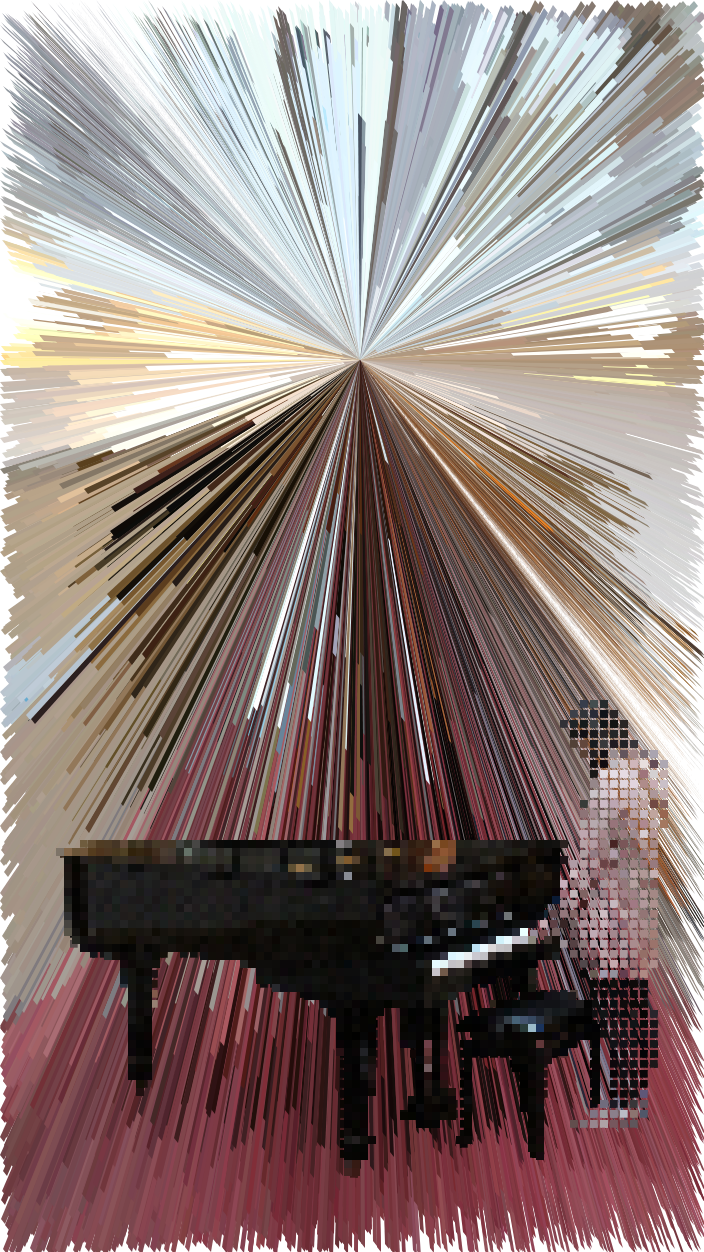
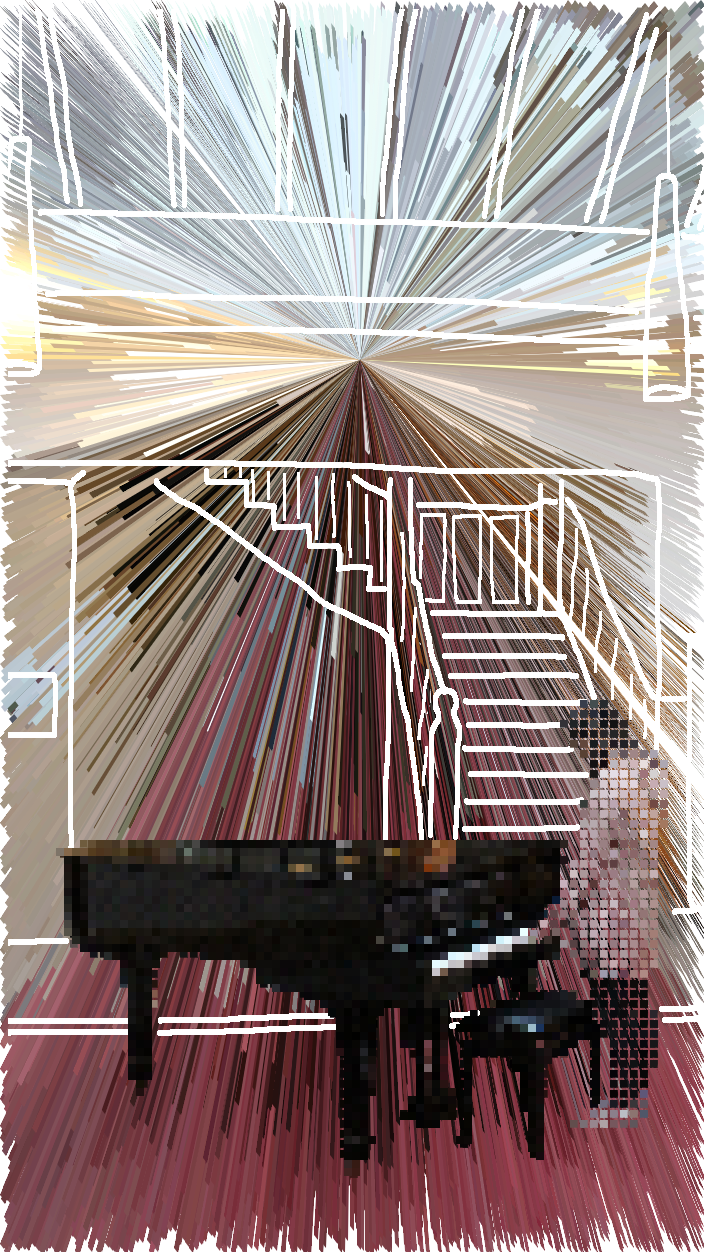
Update process 4.

diff --git a/sketch.js b/sketch.js
@@ -2,13 +2,14 @@ let sourceImg=null;
 let maskImg=null;
 let renderCounter=0;
 
-let sourceFile = "input_3.jpg";
-let maskFile   = "mask_3.png";
-let outputFile = "artwork_3.png";
+let sourceFile = "input_1.jpg";
+let maskFile   = "mask_1.png";
+let outputFile = "artwork_1.png";
 
 function preload() {
   sourceImg = loadImage(sourceFile);
   maskImg = loadImage(maskFile);
+  draw1 = loadImage('drawing_1.png');
 }
 
 function setup () {
@@ -30,12 +31,13 @@ function draw () {
     let mask = maskImg.get(x, y);
     let pointSize = 360;
 
-  // // input_1
-  //   fill(pix);
-  //   if(mask[0] < 255) {
-  //     triangle (x, y, pointSize, pointSize, x+4, y+5);
-  //   }
+  // input_1
+    fill(pix);
+    if(mask[0] < 255) {
+      triangle (x, y, pointSize, pointSize, x+4, y+5);
+    }
 
+    image(draw1, pointSize, pointSize*1.45);
   // // input_2
   // //   person
     // if(mask[0] >= 255) {
@@ -45,52 +47,52 @@ function draw () {
     //   pop();
     // }
 
-  //input_3
-    // left 1
-    fill(pix);
-    noStroke();
-    if(mask[0] >= 255) {
-      rect (x, y, x/15, y/30);
-    }
+  // //input_3
+  //   // left 1
+  //   fill(pix);
+  //   noStroke();
+  //   if(mask[0] >= 255) {
+  //     rect (x, y, x/15, y/30);
+  //   }
 
-    // right 1
-    fill(pix);
-    noStroke();
-    if(mask[0] >= 150 && mask[0] < 200) {
-      rect (x, y, x/30, y/90);
-    }
+  //   // right 1
+  //   fill(pix);
+  //   noStroke();
+  //   if(mask[0] >= 150 && mask[0] < 200) {
+  //     rect (x, y, x/30, y/90);
+  //   }
 
   }
 
 
-  // //input_1
-  //   const tile_width = 10;
-  //   const tile_height = 10;
+  //input_1
+    const tile_width = 10;
+    const tile_height = 10;
 
-  //     for (let y = 0; y < height; y = y + tile_height){
-  //       for (let x = 0; x < width; x = x + tile_width){
-  //         let pix = sourceImg.get (x, y);
-  //         let mask = maskImg.get (x, y);
-  //         fill (pix);
-  //         if (mask[0] >= 80){
-  //           rect (x, y, tile_width/1.3, tile_height/1.3);
-  //         }    
-  //       }
-  //     }
+      for (let y = 0; y < height; y = y + tile_height){
+        for (let x = 0; x < width; x = x + tile_width){
+          let pix = sourceImg.get (x, y);
+          let mask = maskImg.get (x, y);
+          fill (pix);
+          if (mask[0] >= 80){
+            rect (x, y, tile_width/1.3, tile_height/1.3);
+          }    
+        }
+      }
 
-  //   const tile_width1 = 8;
-  //   const tile_height1 = 8;
+    const tile_width1 = 8;
+    const tile_height1 = 8;
 
-  //     for (let y = 0; y < height; y = y + tile_height1){
-  //       for (let x = 0; x < width; x = x + tile_width1){
-  //         let pix = sourceImg.get (x, y);
-  //         let mask = maskImg.get (x, y);
-  //         fill (pix);
-  //         if (mask[0] >= 160){
-  //           rect (x, y, tile_width1, tile_height1);
-  //         }    
-  //       }
-  //     }
+      for (let y = 0; y < height; y = y + tile_height1){
+        for (let x = 0; x < width; x = x + tile_width1){
+          let pix = sourceImg.get (x, y);
+          let mask = maskImg.get (x, y);
+          fill (pix);
+          if (mask[0] >= 160){
+            rect (x, y, tile_width1, tile_height1);
+          }    
+        }
+      }
 
 
   // //input_2
@@ -176,110 +178,110 @@ function draw () {
   //   }
 
 
-  // input_3
+  // // input_3
 
-    // stage
-    const tile_width5 = 10;
-    const tile_height5 = 5;
+  //   // stage
+  //   const tile_width5 = 10;
+  //   const tile_height5 = 5;
 
-    for (let y = 0; y < height; y = y + tile_height5){
-      for (let x = 0; x < width; x = x + tile_width5){
-        let pix = sourceImg.get (x, y);
-        let mask = maskImg.get (x, y);
-        noFill();
-        stroke(pix);
-        if (mask[0] >= 50 && mask[0] < 80){
-          push();
-          stroke(pix);
-          line (x+20, y-20, x-20, y-10);
-          pop();
-        }
-      }
-    }
+  //   for (let y = 0; y < height; y = y + tile_height5){
+  //     for (let x = 0; x < width; x = x + tile_width5){
+  //       let pix = sourceImg.get (x, y);
+  //       let mask = maskImg.get (x, y);
+  //       noFill();
+  //       stroke(pix);
+  //       if (mask[0] >= 50 && mask[0] < 80){
+  //         push();
+  //         stroke(pix);
+  //         line (x+20, y-20, x-20, y-10);
+  //         pop();
+  //       }
+  //     }
+  //   }
 
-    // left 2
-    const tile_width1 = 3;
-    const tile_height1 = 8;
+  //   // left 2
+  //   const tile_width1 = 3;
+  //   const tile_height1 = 8;
 
-    for (let y = 0; y < height; y = y + tile_height1){
-      for (let x = 0; x < width; x = x + tile_width1){
-        let pix = sourceImg.get (x, y);
-        let mask = maskImg.get (x, y);
-        noFill();
-        stroke(pix);
-        if (mask[0] >= 200 && mask[0] < 255){
-          push();
-          stroke(pix);
-          strokeWeight(2);
-          line (x-10, y+10, x-10, y-10);
-          pop();
-        }
-      }
-    }
+  //   for (let y = 0; y < height; y = y + tile_height1){
+  //     for (let x = 0; x < width; x = x + tile_width1){
+  //       let pix = sourceImg.get (x, y);
+  //       let mask = maskImg.get (x, y);
+  //       noFill();
+  //       stroke(pix);
+  //       if (mask[0] >= 200 && mask[0] < 255){
+  //         push();
+  //         stroke(pix);
+  //         strokeWeight(2);
+  //         line (x-10, y+10, x-10, y-10);
+  //         pop();
+  //       }
+  //     }
+  //   }
 
-    // right 2
-    const tile_width3 = 8;
-    const tile_height3 = 3;
+  //   // right 2
+  //   const tile_width3 = 8;
+  //   const tile_height3 = 3;
 
-    for (let y = 0; y < height; y = y + tile_height3){
-      for (let x = 0; x < width; x = x + tile_width3){
-        let pix = sourceImg.get (x, y);
-        let mask = maskImg.get (x, y);
-        noFill();
-        stroke(pix);
-        if (mask[0] >= 100 && mask[0] < 150){
-          push();
-          stroke(pix);
-          strokeWeight(2);
-          line (x+10, y-10, x-10, y-10);
-          pop();
-        }
-      }
-    }
+  //   for (let y = 0; y < height; y = y + tile_height3){
+  //     for (let x = 0; x < width; x = x + tile_width3){
+  //       let pix = sourceImg.get (x, y);
+  //       let mask = maskImg.get (x, y);
+  //       noFill();
+  //       stroke(pix);
+  //       if (mask[0] >= 100 && mask[0] < 150){
+  //         push();
+  //         stroke(pix);
+  //         strokeWeight(2);
+  //         line (x+10, y-10, x-10, y-10);
+  //         pop();
+  //       }
+  //     }
+  //   }
 
-    // lantern
-    const tile_width4 = 10;
-    const tile_height4 = 5;
+  //   // lantern
+  //   const tile_width4 = 10;
+  //   const tile_height4 = 5;
 
-    for (let y = 0; y < height; y = y + tile_height4){
-      for (let x = 0; x < width; x = x + tile_width4){
-        let pix = sourceImg.get (x, y);
-        let mask = maskImg.get (x, y);
-        noFill();
-        stroke(pix);
-        if (mask[0] >= 80 && mask[0] < 100){
-          push();
-          stroke(pix);
-          strokeWeight(1.5);
-          line (x+20, y-10, x-10, y-20);
-          pop();
-        }
-      }
-    }
+  //   for (let y = 0; y < height; y = y + tile_height4){
+  //     for (let x = 0; x < width; x = x + tile_width4){
+  //       let pix = sourceImg.get (x, y);
+  //       let mask = maskImg.get (x, y);
+  //       noFill();
+  //       stroke(pix);
+  //       if (mask[0] >= 80 && mask[0] < 100){
+  //         push();
+  //         stroke(pix);
+  //         strokeWeight(1.5);
+  //         line (x+20, y-10, x-10, y-20);
+  //         pop();
+  //       }
+  //     }
+  //   }
 
-    // background
-    const tile_width6 = 10;
-    const tile_height6 = 10;
+  //   // background
+  //   const tile_width6 = 10;
+  //   const tile_height6 = 10;
 
-    for (let y = 0; y < height; y = y + tile_height6){
-      for (let x = 0; x < width; x = x + tile_width6){
-        let pix = sourceImg.get (x, y);
-        let mask = maskImg.get (x, y);
-        noFill();
-        stroke(pix);
-        strokeWeight(0.5);
-        if (mask[0] <= 0){
-          ellipse (x, y, tile_width6/1.5, tile_height6/1.5);
-        }
-      }
-    }
+  //   for (let y = 0; y < height; y = y + tile_height6){
+  //     for (let x = 0; x < width; x = x + tile_width6){
+  //       let pix = sourceImg.get (x, y);
+  //       let mask = maskImg.get (x, y);
+  //       noFill();
+  //       stroke(pix);
+  //       strokeWeight(0.5);
+  //       if (mask[0] <= 0){
+  //         ellipse (x, y, tile_width6/1.5, tile_height6/1.5);
+  //       }
+  //     }
+  //   }
 
   renderCounter = renderCounter + 1;
   if(renderCounter > 10) {
     console.log("Done!")
     noLoop();
     // uncomment this to save the result
-    // saveArtworkImage(outputFile);
+    saveArtworkImage(outputFile);
   }
 }
 

diff --git a/README.md b/README.md
@@ -1,5 +1,5 @@
 ## Creative Coding 2: Custom Pixel
 
-Process 3:
+Process 4:
 
-I have finished all my three pictures today. For my last picture, I took it when I was in the night market. There were four people in the band, playing different instruments on the stage. In this picture, I have masked it with 7 gradients. For those people who playing instruments, I have used rectangles with fill and lines for my pixels. From left, I have filled rectangles for first and third person. The different between them is the first person has filled with vertical rectangles while the second person has filled with horizontal rectangles. For second and fourth pereson, it's the same idea but using lines instead of rectangles. For the lantern and the stage, I have filled them with slash lines, but both of them have different direction slash lines. Lastly, I wanna make the background looks lighter since the main point in this picture is the band. My first idea was to filled them with lines. However, after I experiment it, the background filled with lines was too dark and hardly to focus on the band. Therefore, I decided to use ellipses for my background. This makes the audience focus on the band instead of the background.
+For my first picture, I think that the background is too empty and blank. The original background of this picture has stairs behind the piano, but the triangles made the details of the background dissapeared. Therefore, I have the idea of showing the details of the background by drawing it. After I experiment this, I found that the hand drawing part doesn't seem really nice with the pixels. When three pictures are stick together, the drawing doesn't match with the other two pictures. So I decided not to add the hand drawing background to my final pictures.
